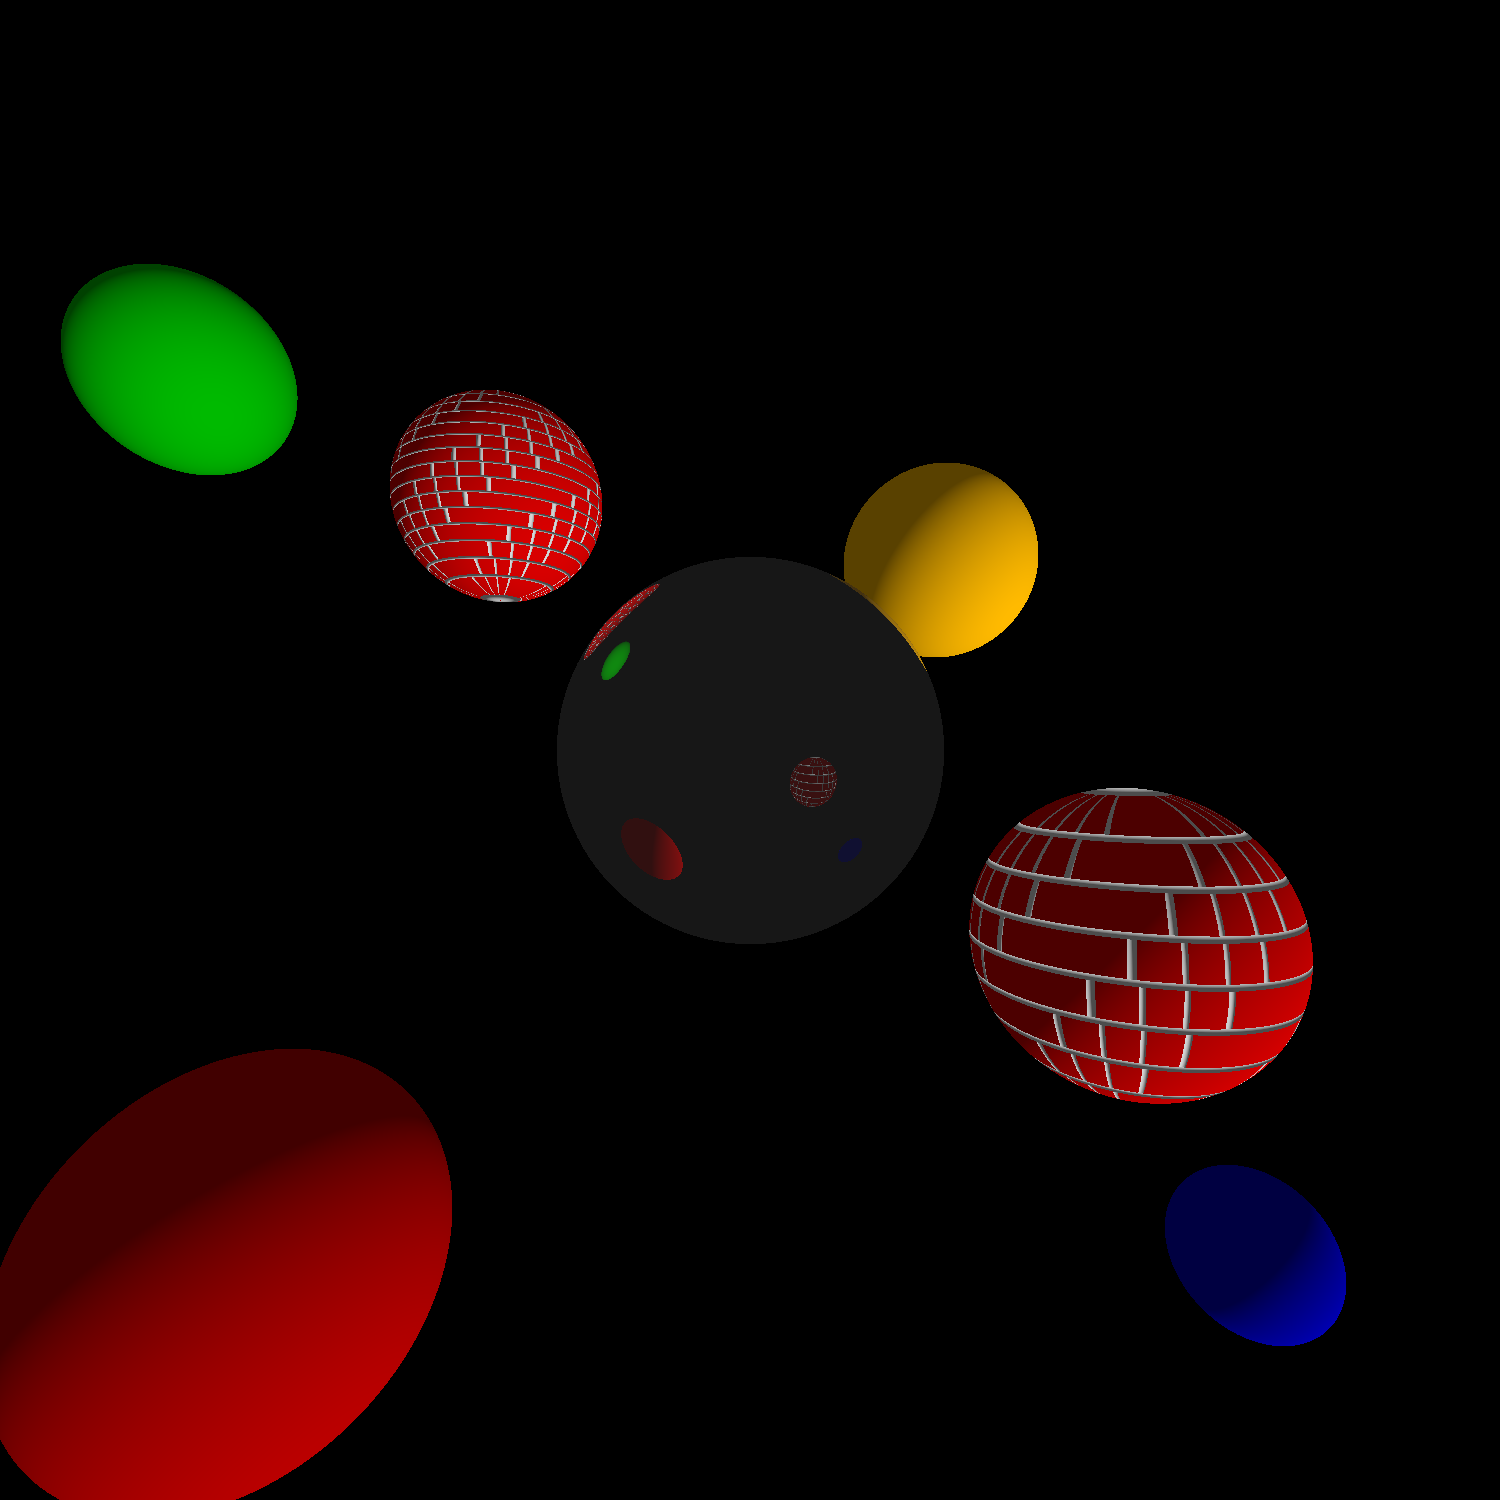
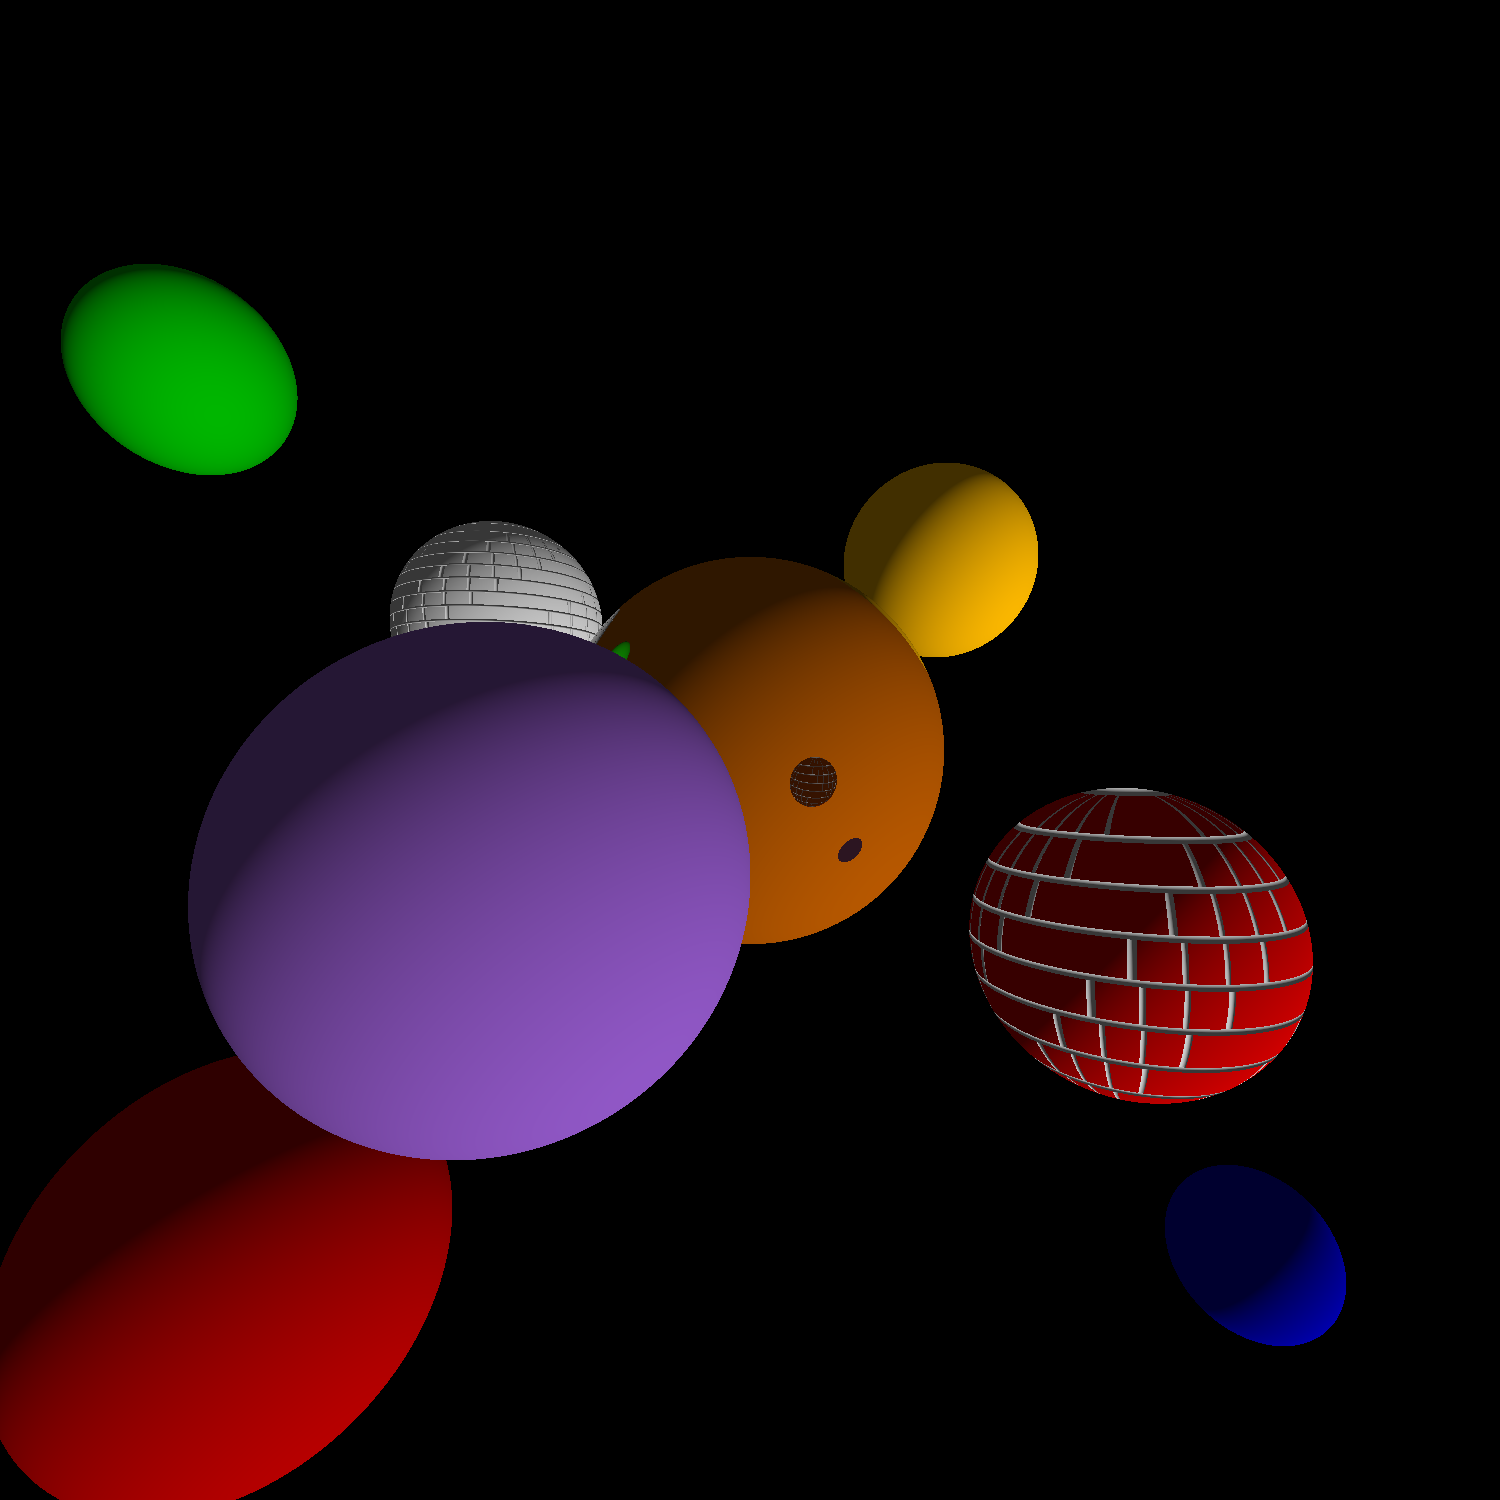
a way to kind of prettify reflector

Changed region(s): [[0.1227, 0.2453, 0.644, 0.7973]]

diff --git a/src/cgg/a02/RayTracer.java b/src/cgg/a02/RayTracer.java
@@ -29,8 +29,18 @@ public class RayTracer implements Sampler
 			__ReflectRay = true;
 		}
 
+		// process glass spheres
+		boolean __GlassRay = false;
+		__Proc = iterateSpheres(scene.glass(),__Ray);
+		if (recentSurfaceHit(__Hit,__Proc))
+		{
+			__Hit = __Proc;
+			__GlassRay = true;
+		}
+
 		// combine
 		if (__Hit==null) return color(0,0,0);
+		if (__GlassRay) return shadeGlass(__Hit);
 		if (__ReflectRay) return shadeReflective(__Hit);
 		return __Hit.colour();
 	}
@@ -81,7 +91,7 @@ public class RayTracer implements Sampler
 	private static Color shade(Hit hit)
 	{
 		Vec3 lightDir = normalize(vec3(1,1,.7));
-		Color ambient = multiply(.1,hit.colour());
+		Color ambient = multiply(.05,hit.colour());
 		Color diffuse = multiply(.9*max(0,dot(lightDir,hit.normal())),hit.colour());
 		return add(ambient,diffuse);
 	}
@@ -116,10 +126,23 @@ public class RayTracer implements Sampler
 
 		// receive colour source & combine
 		Hit __Hit = processScene(__Ray);
-		Color __Fin = color(.005,.005,.005);
-		if (__Hit!=null) __Fin = __Fin.mix(__Hit.colour());
+		Color __Fin = shade(hit);
+		if (__Hit!=null) __Fin = __Fin.mix(__Hit.colour(),.9);
 		return __Fin;
-		// TODO: prettify combination
+	}
+
+	private Color shadeGlass(Hit hit)
+	{
+		// calculate glass ray deformation
+		/*
+		Ray __Ray = new Ray();
+
+		// receive colour source & combine
+		/*
+		Hit __Hit = processScene(__Ray);
+		return (__Hit!=null) ? __Hit.colour().mix(multiply(hit.colour(),.1)) : color(.005,.005,.005);
+		*/
+		return shade(hit);
 	}
 
 	// TODO: brickspheres

diff --git a/src/cgg/a02/Scene.java b/src/cgg/a02/Scene.java
@@ -9,6 +9,7 @@ public class Scene
 	private Camera camera;
 	private ArrayList<Sphere> blands;
 	private ArrayList<Sphere> bricks;
+	private ArrayList<Sphere> glass;
 	private Sphere reflector;
 
 	public Scene(int width,int height)
@@ -26,14 +27,19 @@ public class Scene
 		// brick setup
 		bricks = new ArrayList<Sphere>();
 		bricks.add(new Sphere(vec3(1,.5,-2),.4,color(vec3(.7,0,0))));
-		bricks.add(new Sphere(vec3(-2,-2,-6),.8,color(vec3(.7,0,0))));
+		bricks.add(new Sphere(vec3(-2,-1,-6),.8,color(vec3(.7,.7,.7))));
+
+		// glass setup
+		glass = new ArrayList<Sphere>();
+		glass.add(new Sphere(vec3(-.5,.25,-1.5),.5,color(vec3(.3,.1,.6))));
 
 		// reflector setup
-		reflector = new Sphere(vec3(0,0,-4),1,color(vec3(.5,.2,.1)));
+		reflector = new Sphere(vec3(0,0,-4),1,color(vec3(.5,.1,0)));
 	}
 
 	public Camera camera() { return camera; }
 	public ArrayList<Sphere> blands() { return blands; }
 	public ArrayList<Sphere> bricks() { return bricks; }
+	public ArrayList<Sphere> glass() { return glass; }
 	public Sphere reflector() { return reflector; }
 }

diff --git a/src/tools/Color.java b/src/tools/Color.java
@@ -31,6 +31,13 @@ public record Color(double r, double g, double b) {
 	public Color mul(double val) { return new Color(r*val,g*val,b*val); }
 	public Color mul(Color col) { return new Color(r*col.r(),g*col.g(),b*col.b()); }
 	public Color mix(Color col) { return new Color((r+col.r())/2,(g+col.g())/2,(b+col.b())/2); }
+	public Color mix(Color col,double i)
+	{
+		double pref = 1-i;
+		Color c0 = color(r*pref,g*pref,b*pref);
+		Color c1 = multiply(col,i);
+		return c0.mix(c1);
+	}
 
     /**
      * Returns a string representation of the color.
